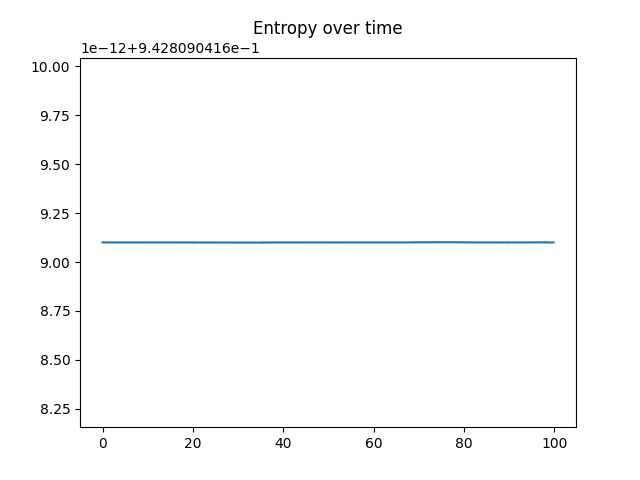
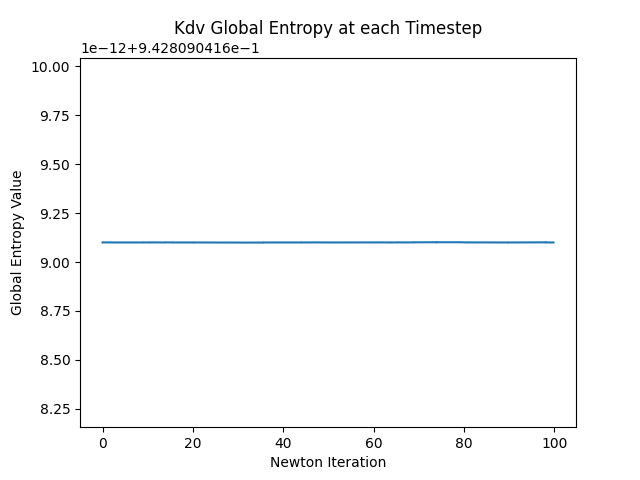
Better plot titles

Changed region(s): [[0.25, 0.0312, 0.75, 0.0938], [0.0, 0.3438, 0.0312, 0.6562], [0.4062, 0.9375, 0.5938, 0.9688]]

diff --git a/newtonSolver.py b/newtonSolver.py
@@ -160,16 +160,16 @@ plt.plot(iterations, resi)
 plt.xlabel("Newton Iteration")
 plt.ylabel("Residual Norm")
 plt.grid(True)
-plt.title("Residual Norm at each Iteration")
+plt.title("Burger's Equation Residual Norm at each Iteration")
 plt.savefig("Newton_Res_norm")
 plt.show()
 plt.plot(iterations, entro)
 plt.ylim(0.95, 0.93)
 plt.plot(iterations, resi)
 plt.xlabel("Newton Iteration")
-plt.ylabel("Entropy")
+plt.ylabel("Global Entropy Value")
 plt.grid(True)
-plt.title("Calculated Entropy at each Iteration")
+plt.title("Burger's Equation Calculated Global Entropy at each Iteration")
 plt.savefig("Newton_seconddiv_Entropy")
 plt.show()
 

diff --git a/kdvRep.py b/kdvRep.py
@@ -247,12 +247,16 @@ def kdv_main():
     x, t, u, ent, err, resHist = kdvsolver(N, time, dt, NewtonOpts, gmresOpts, relax)
 
     plt.plot(t,ent)
-    plt.title("Entropy over time")
+    plt.title("Kdv Global Entropy at each Timestep")
+    plt.xlabel("Newton Iteration")
+    plt.ylabel("Global Entropy Value")
     plt.savefig("Entropy_fig_resi")
     plt.show() 
 
     plt.plot(t,err)
-    plt.title("Error over time")
+    plt.title("Kdv Residual Error over time")
+    plt.xlabel("Time")
+    plt.ylabel("Kdv Residual Value")
     plt.savefig("Error_fig_resi")
     plt.show()
 
